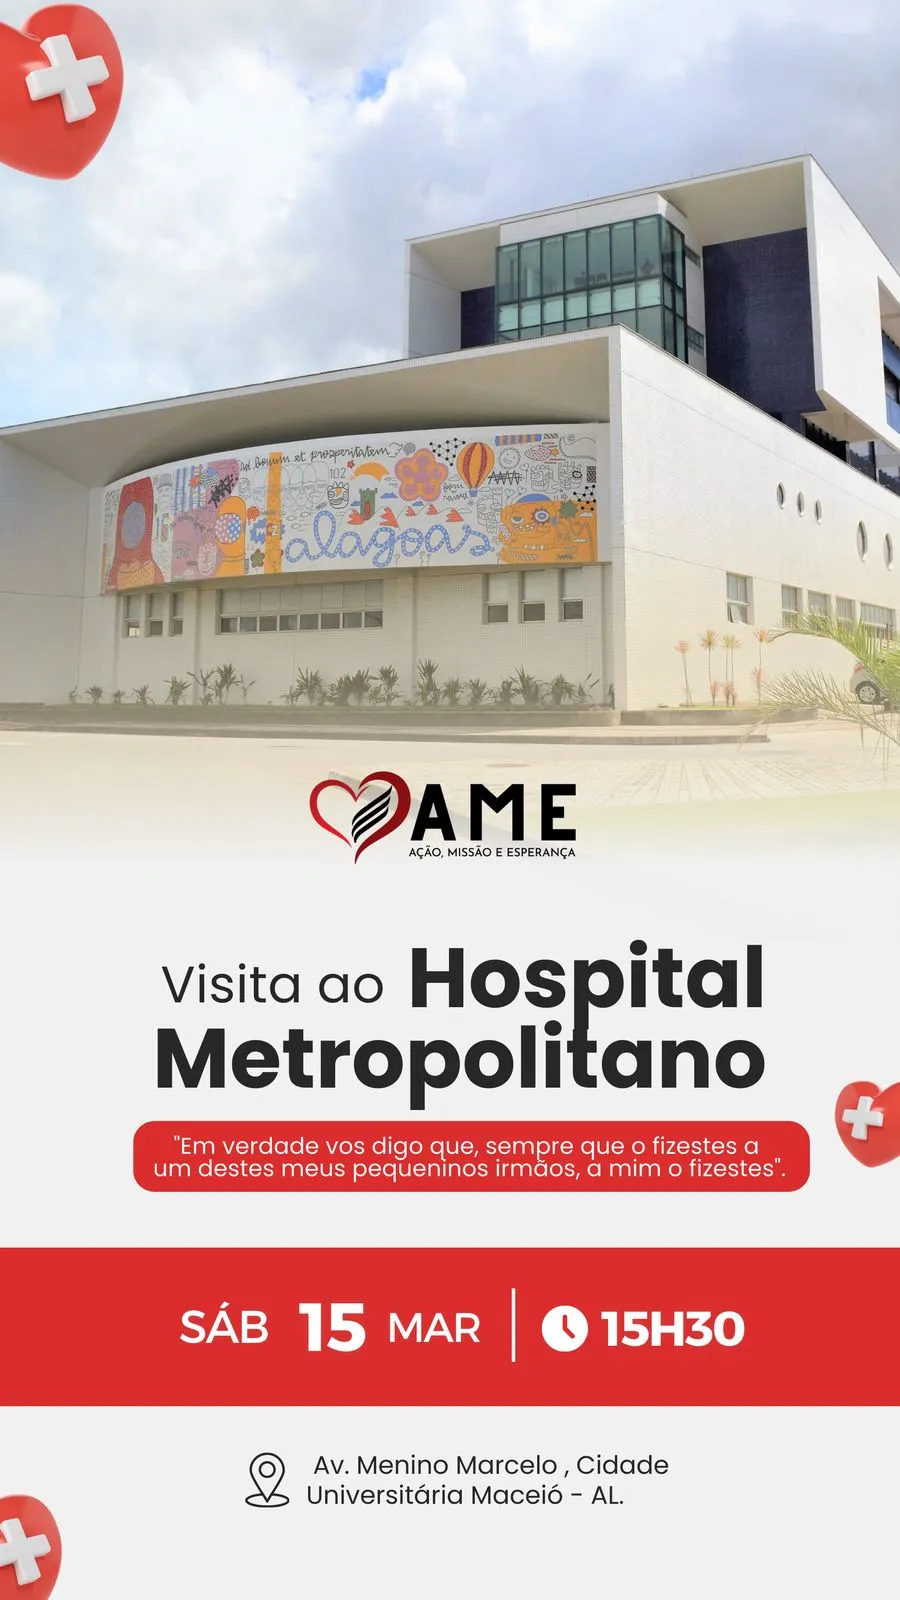
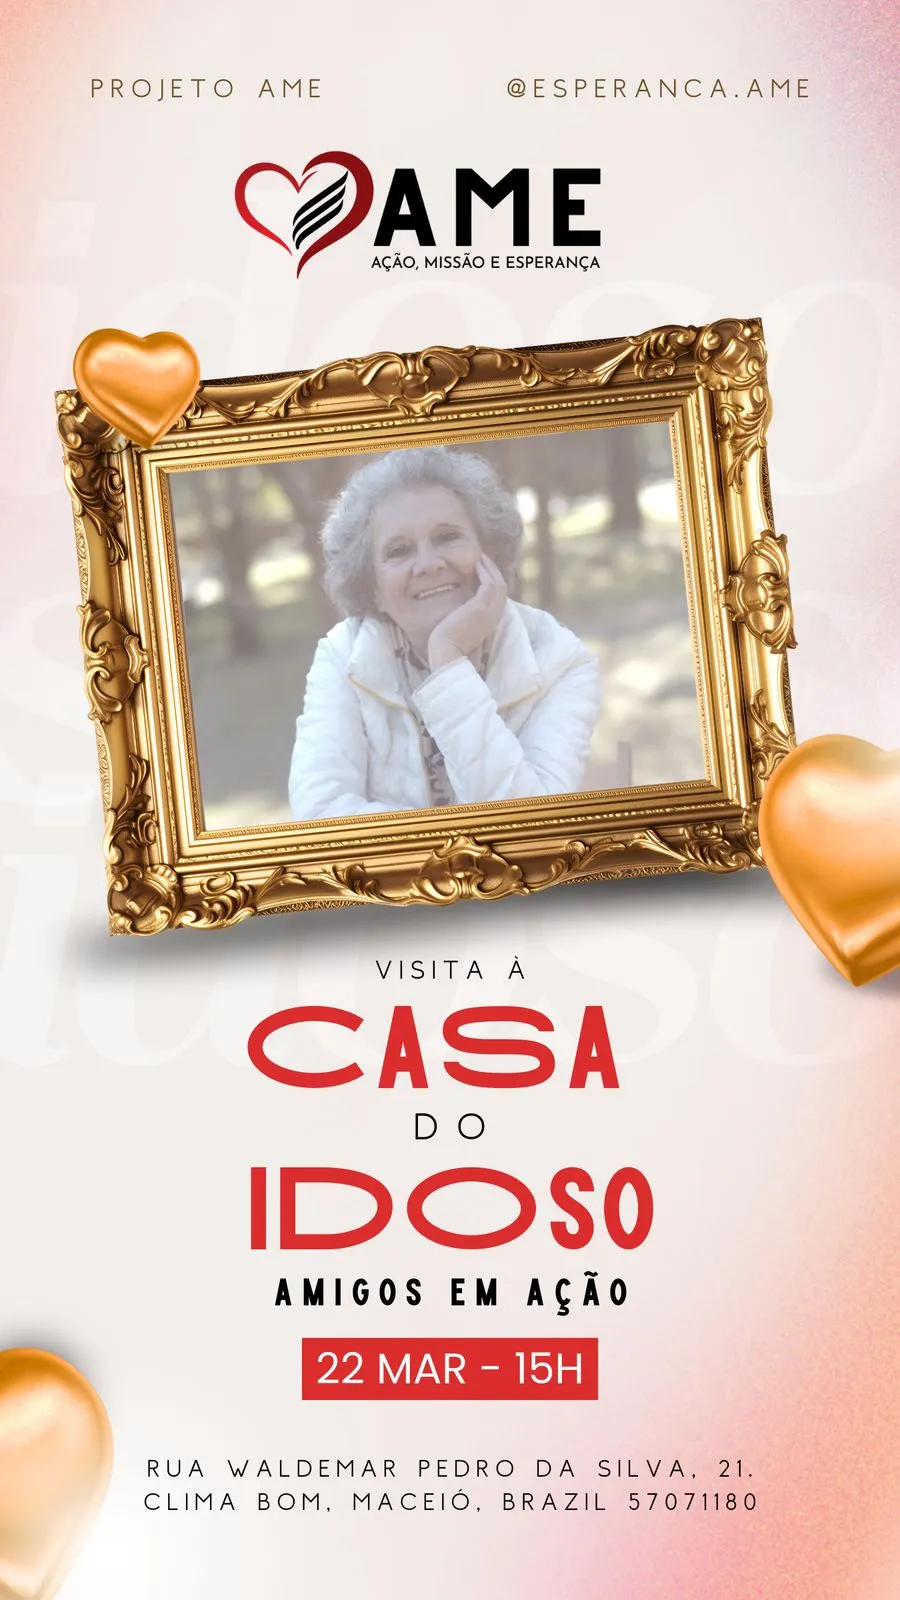
Altereii

diff --git a/index.html b/index.html
@@ -182,10 +182,10 @@
             />
 
             <h2>
-              <i class="fa-solid fa-hospital"></i> Visita ao Hospital Metropolitano
+              <i class="fa-solid fa-house-user"></i> Casa do Idoso
             </h2>
-            <span><i class="fa-solid fa-calendar-day"></i> 15 de Março</span> |
-            <span><i class="fa-solid fa-clock"></i> 15:30</span>
+            <span><i class="fa-solid fa-calendar-day"></i> 22 de Março</span> |
+            <span><i class="fa-solid fa-ban"></i> 15:30</span>
             <br />
             <a
               href="https://chat.whatsapp.com/K0Ucl1IjrQFL1hMzEh7dCT"
